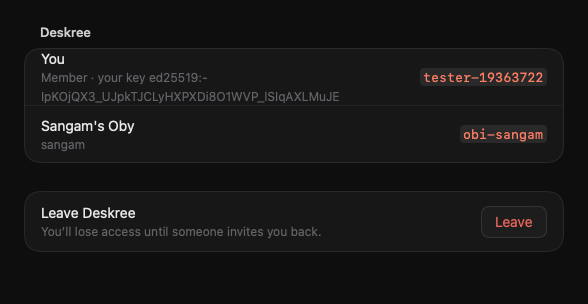
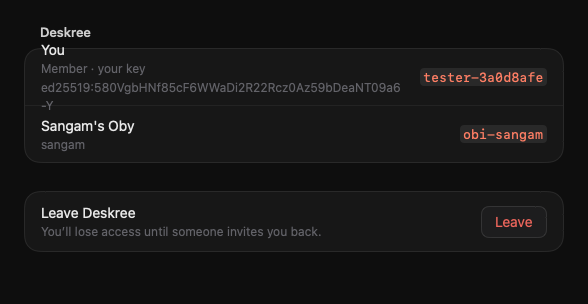
fix(sphere): review of #1431: no Leave for an admin, the joined owner kept, nothing left to send
- An admin gets no Leave (Sangam's design gives them Delete Obysphere,
  which waits for a server route): only invited members leave.
- obid keeps the owner it joined as in home/owner, outside home/sphere,
  so a leave and a restart keep it, and never adopts the GitHub login
  once it exists; an Oby that joined before this writes it at its next
  start. Else a rejoin under another id is refused by the Sphere ("this
  account joined as another owner").
- Leave drops every exchange's waiting replies, under the send lock: they
  were for that Sphere, never the next one.
- A Sphere that can't be told about a leave is said, not swallowed.
- The runner status loop starts at the first follow only.
- SphereScreens' leave test moves away from #1421's.

Changed region(s): [[0.0612, 0.148, 0.6735, 0.3553], [0.7959, 0.2368, 0.949, 0.2664]]

diff --git a/apps/mac/tests/SphereScreens.swift b/apps/mac/tests/SphereScreens.swift
@@ -11,35 +11,6 @@ import Testing
 struct SphereScreens {
     let folder = URL(fileURLWithPath: ProcessInfo.processInfo.environment["OBY_SCREENS"] ?? NSTemporaryDirectory())
 
-    @Test func createSheet() async throws {
-        try await save(CreateSphereSheet(feed: RunnerFeed(), email: "doti@gmail.com", done: { _ in }, close: {}), as: "sphere-create-empty")
-        try await save(CreateSphereSheet(feed: RunnerFeed(), name: "Deskree Platform", emails: ["ernesto@deskree.com", "sangam@deskree.com"],
-                                         email: "doti@deskree.com", done: { _ in }, close: {}), as: "sphere-create-filled")
-        try await save(CreateSphereSheet(feed: RunnerFeed(), name: "Deskree Platform", emails: ["ernesto@deskree.com", "not-an-email"],
-                                         email: "doti@deskree.com", done: { _ in }, close: {}), as: "sphere-create-wrong-email")
-    }
-
-    /// The Join screen an oby://join link opened, with the trust question for a server Oby doesn't
-    /// know (in the link's own words: nothing is asked of it yet); then Host your own once Deploy
-    /// copied the token, and once an address is checked.
-    @Test func anOpenedJoinLinkAndHostYourOwn() async throws {
-        let obid = RunnerStub { request in
-            request.path == "/v1/obid/sphere" ? (200, #"{"state": "none", "owner": "wellington"}"#) : (404, "{}")
-        }
-        let feed = RunnerFeed()
-        feed.stageAlerts(following: obid.runner)
-        OpenedInvite.shared.invite = InviteLink(opened: URL(string: "oby://join/obi-sphere.acme.workers.dev#sphere=acme&name=Acme&by=sangam&id=inv-1&secret=s")!)
-        try await save(settings(SphereSettingsView(feed: feed)), as: "sphere-join-opened")
-        let host = HostOwn.shared
-        host.made = ("made", 0)
-        defer { (host.made, host.address) = (nil, "") }
-        try await save(settings(SphereSettingsView(feed: feed)), as: "sphere-host-your-own")
-        // Checked, waiting for the owner to say it's theirs.
-        host.address = "obi-sphere.acme.workers.dev"
-        host.checked = URL(string: "https://obi-sphere.acme.workers.dev")
-        try await save(settings(SphereSettingsView(feed: feed)), as: "sphere-host-your-own-confirm")
-    }
-
     /// Settings › Obysphere in an Obysphere, with Leave at the bottom; and once its admin removed this
     /// Oby, Leave to join another (#1214). The Sphere is faked for this test alone.
     @Test func leaveAnObysphere() async throws {
@@ -79,6 +50,35 @@ struct SphereScreens {
         let gone = RunnerFeed()
         gone.stageAlerts(following: removed.runner)
         try await save(settings(SphereSettingsView(feed: gone)), as: "sphere-removed")
+    }
+
+    @Test func createSheet() async throws {
+        try await save(CreateSphereSheet(feed: RunnerFeed(), email: "doti@gmail.com", done: { _ in }, close: {}), as: "sphere-create-empty")
+        try await save(CreateSphereSheet(feed: RunnerFeed(), name: "Deskree Platform", emails: ["ernesto@deskree.com", "sangam@deskree.com"],
+                                         email: "doti@deskree.com", done: { _ in }, close: {}), as: "sphere-create-filled")
+        try await save(CreateSphereSheet(feed: RunnerFeed(), name: "Deskree Platform", emails: ["ernesto@deskree.com", "not-an-email"],
+                                         email: "doti@deskree.com", done: { _ in }, close: {}), as: "sphere-create-wrong-email")
+    }
+
+    /// The Join screen an oby://join link opened, with the trust question for a server Oby doesn't
+    /// know (in the link's own words: nothing is asked of it yet); then Host your own once Deploy
+    /// copied the token, and once an address is checked.
+    @Test func anOpenedJoinLinkAndHostYourOwn() async throws {
+        let obid = RunnerStub { request in
+            request.path == "/v1/obid/sphere" ? (200, #"{"state": "none", "owner": "wellington"}"#) : (404, "{}")
+        }
+        let feed = RunnerFeed()
+        feed.stageAlerts(following: obid.runner)
+        OpenedInvite.shared.invite = InviteLink(opened: URL(string: "oby://join/obi-sphere.acme.workers.dev#sphere=acme&name=Acme&by=sangam&id=inv-1&secret=s")!)
+        try await save(settings(SphereSettingsView(feed: feed)), as: "sphere-join-opened")
+        let host = HostOwn.shared
+        host.made = ("made", 0)
+        defer { (host.made, host.address) = (nil, "") }
+        try await save(settings(SphereSettingsView(feed: feed)), as: "sphere-host-your-own")
+        // Checked, waiting for the owner to say it's theirs.
+        host.address = "obi-sphere.acme.workers.dev"
+        host.checked = URL(string: "https://obi-sphere.acme.workers.dev")
+        try await save(settings(SphereSettingsView(feed: feed)), as: "sphere-host-your-own-confirm")
     }
 
     private func settings(_ page: some View) -> some View {

diff --git a/apps/mac/tests/SphereTests.swift b/apps/mac/tests/SphereTests.swift
@@ -332,6 +332,7 @@ struct SphereTests {
 
     /// Leave removes this Mac's Oby on the Sphere with the owner's own token, then obid forgets it (#1214).
     @MainActor @Test func leavingRemovesThisObyOnTheSphereThenObidForgetsIt() async throws {
+        Stubbed.left.withLock { $0 = false }
         let owner = "tester-\(UUID().uuidString.lowercased().prefix(8))"
         let server = RunnerStub { request in
             switch (request.method, request.path) {
@@ -365,6 +366,37 @@ struct SphereTests {
         #expect(server.requests.last?.authorization == "Bearer owner-token")
         #expect(obid.requests.contains { $0.method == "DELETE" && $0.path == "/v1/obid/sphere" })
         #expect(!sphere.joined && sphere.membership?.state == "none")
+    }
+
+    /// A Sphere that can't be told still lets this Mac leave, and the owner hears it's still listed there.
+    @MainActor @Test func leavingWhenTheSphereCantBeToldLeavesAndSaysSo() async throws {
+        Stubbed.left.withLock { $0 = false }
+        let owner = "tester-\(UUID().uuidString.lowercased().prefix(8))"
+        let server = RunnerStub { _ in (503, #"{"error": {"code": "unavailable", "message": "down"}}"#) }
+        let joined = #"{"state": "joined", "owner": "\#(owner)", "url": "https://\#(server.host)", "sphere": "acme", "obiId": "obi-\#(owner)"}"#
+        let left = #"{"state": "none", "owner": "\#(owner)"}"#
+        let obid = RunnerStub { request in
+            switch (request.method, request.path) {
+            case ("GET", "/v1/obid/sphere"): (200, Stubbed.left.withLock { $0 } ? left : joined)
+            case ("DELETE", "/v1/obid/sphere"): { Stubbed.left.withLock { $0 = true }; return (200, left) }()
+            default: (404, "{}")
+            }
+        }
+        let session = SphereServer.session
+        let configuration = URLSessionConfiguration.ephemeral
+        configuration.protocolClasses = [RunnerStubProtocol.self] + (configuration.protocolClasses ?? [])
+        SphereServer.session = URLSession(configuration: configuration, delegate: NoRedirects(), delegateQueue: nil)
+        defer {
+            SphereServer.session = session
+            try? OwnerKey.store.remove(owner)
+        }
+        let feed = RunnerFeed()
+        feed.stageAlerts(following: obid.runner)
+        let sphere = SphereModel(feed: feed)
+        let untold = await #expect(throws: RunnerError.self) { try await sphere.leave() }
+        #expect(untold?.message.hasPrefix("This Mac left acme, but the Obysphere couldn't be told") == true)
+        #expect(obid.requests.contains { $0.method == "DELETE" && $0.path == "/v1/obid/sphere" })
+        #expect(sphere.membership?.state == "none")
     }
 
     @Test func anObysphereIdComesFromItsName() {

diff --git a/apps/mac/app/Sphere.swift b/apps/mac/app/Sphere.swift
@@ -765,21 +765,29 @@ final class SphereModel {
     /// Leaves the Obysphere (docs/runner-api.md, `DELETE /v1/obid/sphere`), so this Mac can join
     /// another or this one again (#1214). This Mac's Oby is removed there first, with the owner's own
     /// token, which obid never holds; then obid forgets the Sphere and its Obi key.
+    /// When the Sphere can't be told, this Mac leaves all the same, and says so: the Sphere still
+    /// lists this Oby until its admin removes it.
     func leave() async throws {
         let runner = try runner()
         let membership: Membership = try await runner.call("GET", "v1/obid/sphere")
+        var untold: Error?
         if membership.state == "joined", let url = membership.url.flatMap(URL.init(string:)),
            let sphere = membership.sphere, let obi = membership.obiId {
             let server = SphereServer(base: url)
-            // ponytail: a Sphere that can't be reached still lists this Oby, removed by its admin later.
-            if let token = try? await server.ownerToken(owner: membership.owner, sphere: sphere,
-                                                         key: try OwnerKey.of(membership.owner), scope: "directory:read") {
-                _ = try? await server.call("DELETE", "spheres/\(sphere)/members/\(obi)", bearer: token)
+            do {
+                let token = try await server.ownerToken(owner: membership.owner, sphere: sphere,
+                                                        key: try OwnerKey.of(membership.owner), scope: "directory:read")
+                _ = try await server.call("DELETE", "spheres/\(sphere)/members/\(obi)", bearer: token)
+            } catch {
+                untold = error
             }
         }
         _ = try await runner.send("DELETE", "v1/obid/sphere")
         (name, admin, members, teamLink, requests) = (nil, false, [], nil, [])
         try await refresh()
+        if let untold {
+            throw RunnerError(message: "This Mac left \(membership.sphere ?? "the Obysphere"), but the Obysphere couldn't be told (\(untold.localizedDescription)): it still lists your Oby until its admin removes it.")
+        }
     }
 
     /// A new card and delegation for this Mac's Oby (docs/runner-api.md, `PUT /v1/obid/sphere/membership`):

diff --git a/apps/mac/app/SphereSettings.swift b/apps/mac/app/SphereSettings.swift
@@ -261,17 +261,20 @@ struct SphereSettingsView: View {
             }
         }
         if sphere.admin { inviting(name) }
-        // Last, set apart (Sangam's design; an admin's Delete Obysphere waits for a server route).
-        SetGroup {
-            SetRow("Leave \(name)", about: "You’ll lose access until someone invites you back.") {
-                Button("Leave", role: .destructive) { leaving = true }.buttonStyle(.set)
+        // Last, set apart: an invited member leaves (Sangam's design). Its admin gets Delete
+        // Obysphere there instead, which waits for a server route: nothing for now.
+        if !sphere.admin {
+            SetGroup {
+                SetRow("Leave \(name)", about: "You’ll lose access until someone invites you back.") {
+                    Button("Leave", role: .destructive) { leaving = true }.buttonStyle(.set)
+                }
             }
-        }
-        .confirmationDialog("Leave \(name)?", isPresented: $leaving, titleVisibility: .visible) {
-            Button("Leave", role: .destructive) { sphere.run { try await sphere.leave() } }
-            Button("Cancel", role: .cancel) {}
-        } message: {
-            Text("You’ll lose access to \(name) and everything its Obys share. To come back, someone has to invite you again.")
+            .confirmationDialog("Leave \(name)?", isPresented: $leaving, titleVisibility: .visible) {
+                Button("Leave", role: .destructive) { sphere.run { try await sphere.leave() } }
+                Button("Cancel", role: .cancel) {}
+            } message: {
+                Text("You’ll lose access to \(name) and everything its Obys share. To come back, someone has to invite you again.")
+            }
         }
     }
 

diff --git a/core/crates/obid/src/sphere/link.rs b/core/crates/obid/src/sphere/link.rs
@@ -291,6 +291,8 @@ pub struct Link {
     relay: std::sync::OnceLock<Arc<crate::relay::Relay>>,
     /// Who obid acts for in its Sphere ([`Link::owner`]).
     owner: Mutex<String>,
+    /// The runner status loop, started at the first follow only.
+    status_kept: std::sync::Once,
 }
 
 fn api(status: StatusCode, message: impl Into<String>) -> ApiError {
@@ -486,10 +488,21 @@ impl Link {
         let client = membership
             .as_ref()
             .and_then(|m| Client::new(&m.url, &m.sphere).ok());
-        let owner = membership
+        // The owner it joined as (an Oby that joined before `home/owner` existed keeps it now), else
+        // the one it joined a Sphere as before it left, else config's.
+        let joined_as = membership
             .as_ref()
             .and_then(|m| obi_protocol::card::params(&m.card)?.get("owner")?.as_str())
-            .map_or_else(|| config.owner.clone(), str::to_owned);
+            .map(str::to_owned);
+        if let Some(owner) = &joined_as
+            && files.load_owner().is_none()
+            && let Err(e) = files.save_owner(owner)
+        {
+            tracing::error!("can't keep the owner obid joined as: {e}");
+        }
+        let owner = joined_as
+            .or_else(|| files.load_owner())
+            .unwrap_or_else(|| config.owner.clone());
         let state = State {
             key,
             membership,
@@ -538,6 +551,7 @@ impl Link {
             sentry: std::sync::OnceLock::new(),
             relay: std::sync::OnceLock::new(),
             owner: Mutex::new(owner),
+            status_kept: std::sync::Once::new(),
         });
         // The inbox hears of the permissions jobs wait on. Jobs tells it with none of its own
         // locks held, and never while this Link's state is locked (only `start_obi_review` is
@@ -1605,8 +1619,21 @@ impl Link {
     /// next join makes a new one. The exchanges and the inbox stay.
     pub async fn leave(&self) -> Result<Value, ApiError> {
         let _one = self.joining.lock().await;
+        // No send under way, and nothing left to send: an exchange's waiting replies were for this
+        // Sphere, never the next one's.
+        let _sending = self.sending.lock().await;
         if self.has_membership() {
             self.settle_on_revoke();
+        }
+        let waiting: Vec<String> = self
+            .lock()
+            .exchanges
+            .values()
+            .filter(|e| !e.outbox.is_empty())
+            .map(|e| e.correlation_id.clone())
+            .collect();
+        for cid in waiting {
+            self.update_exchange(&cid, |e| e.outbox.clear());
         }
         self.files.forget().map_err(|e| {
             api(
@@ -1917,7 +1944,8 @@ impl Link {
         let kept = self
             .files
             .save_membership(&membership)
-            .and_then(|()| self.files.save_delegation(&delegation));
+            .and_then(|()| self.files.save_delegation(&delegation))
+            .and_then(|()| self.files.save_owner(&owner));
         {
             let mut state = self.lock();
             state.membership = Some(membership);
@@ -2173,7 +2201,7 @@ impl Link {
         if self.following.swap(true, Ordering::SeqCst) {
             return;
         }
-        self.keep_runner_status();
+        self.status_kept.call_once(|| self.keep_runner_status());
         let link = self.clone();
         tokio::spawn(async move {
             tokio::select! {
@@ -5539,10 +5567,12 @@ impl Link {
         self.owner.lock().unwrap_or_else(|e| e.into_inner()).clone()
     }
 
-    /// Until obid joins a Sphere, its owner becomes `github`, the login gh is signed in as, when
-    /// config's `owner` is still the Mac's login name obid wrote at its first start (#1214): a
+    /// Until obid first joins a Sphere, its owner becomes `github`, the login gh is signed in as,
+    /// when config's `owner` is still the Mac's login name obid wrote at its first start (#1214): a
     /// Sphere binds one owner key per owner id, and two people's Macs often share a login name
-    /// (or have one that isn't an id, `john.doe`). An owner the person set themselves stays.
+    /// (or have one that isn't an id, `john.doe`). An owner the person set themselves stays, and so
+    /// does the one obid ever joined as (`home/owner`, kept after a leave): the Sphere would refuse
+    /// that person's rejoin under another id ("this account joined as another owner").
     pub fn adopt_github_owner(&self, github: &str) {
         let github = github.to_ascii_lowercase();
         let login = nix::unistd::User::from_uid(nix::unistd::getuid())
@@ -5550,6 +5580,7 @@ impl Link {
             .flatten()
             .map(|user| user.name);
         if self.lock().membership.is_some()
+            || self.files.load_owner().is_some()
             || login.as_deref() != Some(self.config.owner.as_str())
             || !is_slug(&github)
         {
@@ -7070,8 +7101,19 @@ mod tests {
         assert!(home.join("sphere/membership.json").is_file());
         assert!(home.join("keys/obi.key").is_file());
 
+        let mut exchange = Exchange::new(
+            "outgoing",
+            json!({"correlation_id": "c-waiting", "type": "question"}),
+            "obi-ernesto".into(),
+            None,
+        );
+        exchange.outbox.push(json!({"id": "m-1"}));
+        link.lock().exchanges.insert("c-waiting".into(), exchange);
+
         let left = link.leave().await.ok().unwrap();
         assert_eq!(left["state"], "none");
+        // What waited to go to that Sphere never goes to the next.
+        assert!(link.lock().exchanges["c-waiting"].outbox.is_empty());
         assert!(!link.has_membership());
         assert!(!home.join("sphere").exists());
         assert!(!home.join("keys/obi.key").exists());
@@ -7112,7 +7154,8 @@ mod tests {
         assert_eq!(link.owner(), "wellington");
         let _ = std::fs::remove_dir_all(&home);
 
-        // A membership kept: the owner its card names, whatever config says.
+        // A membership kept: the owner its card names, whatever config says; kept in `home/owner`,
+        // and still the owner after a leave, and after a restart (#1214).
         let home = std::env::temp_dir().join(format!("obid-link-owner-in-{}", std::process::id()));
         let _ = std::fs::remove_dir_all(&home);
         let mut kept = membership("joined");
@@ -7128,6 +7171,20 @@ mod tests {
         let link = Link::open(config, jobs, events, stopping).unwrap();
         link.adopt_github_owner("wellprado");
         assert_eq!(link.owner(), "carol");
+        assert_eq!(Files::new(&home).load_owner().as_deref(), Some("carol"));
+        link.leave().await.ok().unwrap();
+        link.adopt_github_owner("wellprado");
+        assert_eq!(link.owner(), "carol");
+        let config = Config::parse(
+            &json!({"listen": "127.0.0.1:0", "home": home, "owner": login}).to_string(),
+        )
+        .unwrap();
+        let events = Events::new();
+        let jobs = Jobs::open(config.clone(), events.clone(), Err("no sandbox".into())).unwrap();
+        let (_stop, stopping) = watch::channel(false);
+        let again = Link::open(config, jobs, events, stopping).unwrap();
+        again.adopt_github_owner("wellprado");
+        assert_eq!(again.owner(), "carol");
         let _ = std::fs::remove_dir_all(&home);
     }
 

diff --git a/core/crates/obid/src/sphere/membership.rs b/core/crates/obid/src/sphere/membership.rs
@@ -5,6 +5,8 @@
 //!   log or agent ever sees it, and the job sandbox hides `home` from agents.
 //! - `sphere/membership.json` (0600): the Sphere, the Obi's id and its owner-signed card.
 //! - `sphere/delegation.jwt` (0600): the owner's delegation, never shown again once kept.
+//! - `owner` (0600): the owner id obid joined a Sphere as. It outlives a leave, so obid joins again
+//!   as the same owner: a Sphere binds an owner to their first key and Google account (#1214).
 
 use std::path::{Path, PathBuf};
 
@@ -56,6 +58,7 @@ pub struct Files {
     key: PathBuf,
     membership: PathBuf,
     delegation: PathBuf,
+    owner: PathBuf,
 }
 
 impl Files {
@@ -64,6 +67,7 @@ impl Files {
             key: home.join("keys").join("obi.key"),
             membership: home.join("sphere").join("membership.json"),
             delegation: home.join("sphere").join("delegation.jwt"),
+            owner: home.join("owner"),
         }
     }
 
@@ -106,7 +110,20 @@ impl Files {
         store::write_private(&self.membership, &text)
     }
 
+    /// The owner id obid joined a Sphere as, if it ever joined one.
+    pub fn load_owner(&self) -> Option<String> {
+        std::fs::read_to_string(&self.owner)
+            .ok()
+            .map(|t| t.trim().to_owned())
+            .filter(|t| !t.is_empty())
+    }
+
+    pub fn save_owner(&self, owner: &str) -> std::io::Result<()> {
+        store::write_private(&self.owner, owner.as_bytes())
+    }
+
     /// Removes the Obi key and the Sphere's folder with everything in it (obid left its Sphere).
+    /// The owner it joined as stays.
     pub fn forget(&self) -> std::io::Result<()> {
         let gone = |r: std::io::Result<()>| match r {
             Err(e) if e.kind() != std::io::ErrorKind::NotFound => Err(e),

diff --git a/docs/runner-api.md b/docs/runner-api.md
@@ -2527,11 +2527,11 @@ The Obi's place in one Sphere: its key, its owner-signed agent card, its owner's
  "tokenExpiresAt": "2026-10-14T13:00:05Z", "lastPoll": "2026-10-14T12:00:40Z", "lastError": null}
 ```
 
-`state` is `none` (no Sphere yet; the other keys null, except `owner`, and `keyId`/`publicKey` once the key exists), `joined` or `revoked` (the Sphere refused its token as revoked). `owner` is who obid acts for in its Sphere: while it keeps a membership, the owner its card names; until then, configuration's `owner`, except that while that is still the Mac's login name (what obid writes at its first start), this call makes it the GitHub login `gh` is signed in as, lower-cased (#1214: a Sphere binds one owner key per owner id, and two people's Macs often share a login name, or have one like `john.doe` that isn't an id). `lastError` is the last thing that went wrong talking to the Sphere, one line, or null.
+`state` is `none` (no Sphere yet; the other keys null, except `owner`, and `keyId`/`publicKey` once the key exists), `joined` or `revoked` (the Sphere refused its token as revoked). `owner` is who obid acts for in its Sphere: while it keeps a membership, the owner its card names; after it leaves one, the owner it joined as (`home/owner`, 0600, kept across a leave and a restart, since a Sphere refuses that person's rejoin under another id); until it first joins, configuration's `owner`, except that while that is still the Mac's login name (what obid writes at its first start), this call makes it the GitHub login `gh` is signed in as, lower-cased (#1214: a Sphere binds one owner key per owner id, and two people's Macs often share a login name, or have one like `john.doe` that isn't an id). `lastError` is the last thing that went wrong talking to the Sphere, one line, or null.
 
 **Once revoked** (the directory lists this Obi `revoked`), nothing more comes in from the Sphere or goes out to it, and what was open is settled here, its peers not told. obid stops following its deliveries, and a request delivered after the revoke (in the same poll, or a poll alongside) is dropped: it reaches neither the inbox nor a remembered decision. It sends nothing more: replies built before stay unsent. Each incoming request still open ends `declined` with no decline built or sent and `error` `obid's membership was revoked: settled here, and its peer wasn't told.`: one in the inbox (its item done, with no `answer`), a question being answered by itself, and an accepted review (its job stopped, and no result built). The clock still runs: what this Obi sent, and anything else still open, expires at its `expires_at` as before, and a decline the clock builds then never goes. An obid that starts with its membership revoked settles what's open the same way. With no membership at all, the sender and the clock don't run.
 
-**`DELETE /v1/obid/sphere`** leaves the Sphere, joined or revoked, so obid can join another or the same one again (#1214): what's open is settled as at a revoke, `home/sphere` goes (the membership, the delegation, the chain obid saw, the pinned owner keys) and so does the Obi key (`keys/obi.key`), since a Sphere never takes a key or an Obi id twice; the exchanges and the inbox stay, and the phone relay's socket ends. obid can't remove itself from the Sphere's directory: that takes the owner's own token, so the Mac app first calls `DELETE /v0.1/spheres/{sphere}/members/{obi}` with one (scope `directory:read`), when the Sphere answers. Answers the membership, `state` `none`; the same with nothing to leave. A Mac joining with a new open link tries `obi-<owner>`, then `obi-<owner>-2` to `-9` while the Sphere answers that the id was a member before.
+**`DELETE /v1/obid/sphere`** leaves the Sphere, joined or revoked, so obid can join another or the same one again (#1214): what's open is settled as at a revoke, every exchange's waiting replies are dropped (they were for that Sphere, never the next), `home/sphere` goes (the membership, the delegation, the chain obid saw, the pinned owner keys) and so does the Obi key (`keys/obi.key`), since a Sphere never takes a key or an Obi id twice; the exchanges and the inbox stay, and the phone relay's socket ends. obid can't remove itself from the Sphere's directory: that takes the owner's own token, so the Mac app first calls `DELETE /v0.1/spheres/{sphere}/members/{obi}` with one (scope `directory:read`), when the Sphere answers. Answers the membership, `state` `none`; the same with nothing to leave. A Mac joining with a new open link tries `obi-<owner>`, then `obi-<owner>-2` to `-9` while the Sphere answers that the id was a member before.
 
 **`POST /v1/obid/sphere/key`**, no body: makes the Obi's Ed25519 key if there is none, and answers `{"keyId": "ed25519:…", "publicKey": "<base64url>"}`, the same every time after. The private key never appears in an answer, an event, a log or an agent's reach.
 
